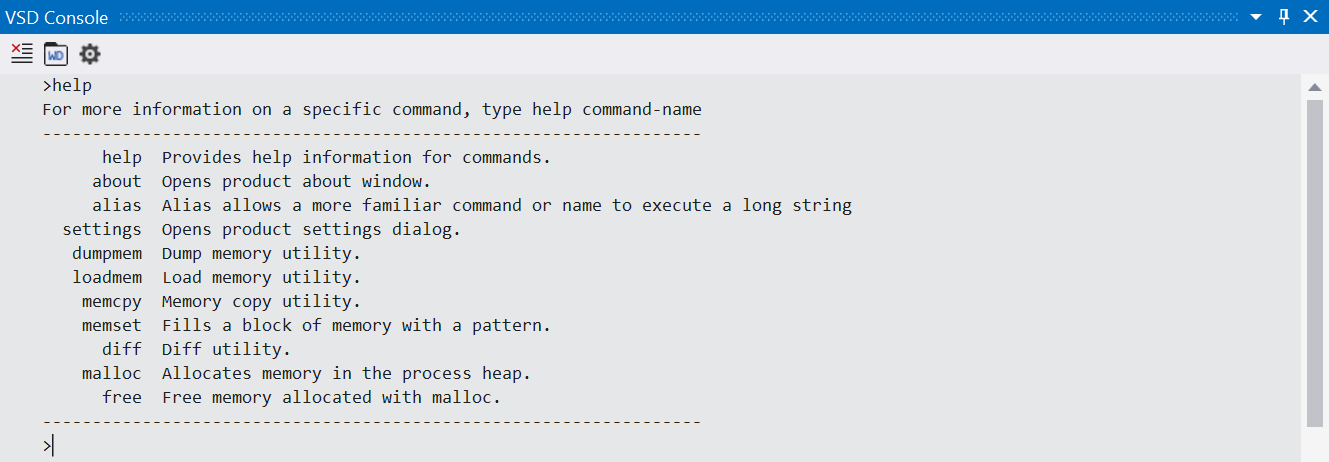
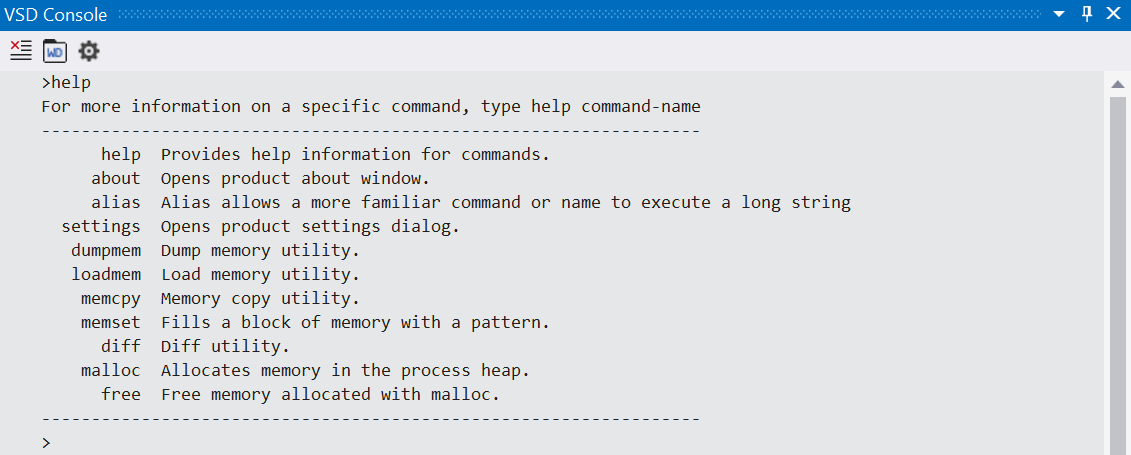
Updated readme - new console image

diff --git a/README.md b/README.md
@@ -7,5 +7,5 @@ Enhanced debugging for C/C++. Dump blocks of data, load data in memory and more.
 
 **[www.vsdebug.pro](http://www.vsdebug.pro)**
 
-![VSDebugPro Console](http://www.vsdebug.pro/assets/img/vsd_console.png)
+![VSDebugPro Console](assets/console.png)
 
